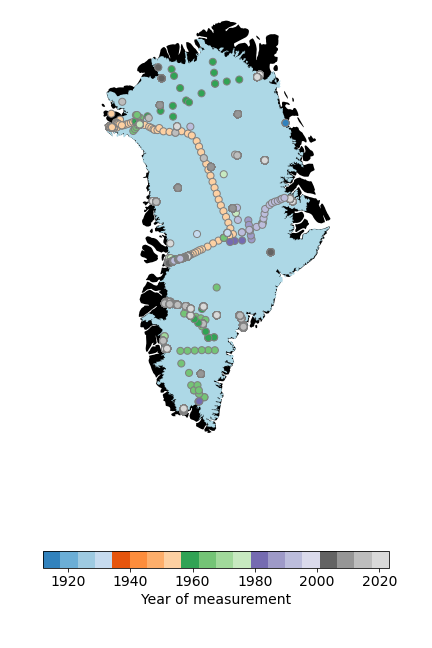
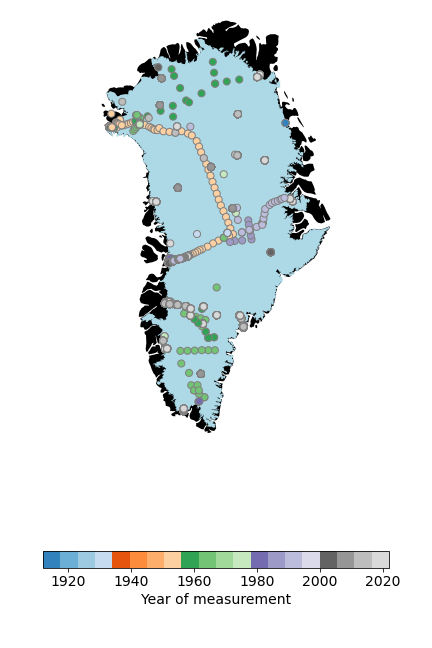
update land in figures

diff --git a/8_ANN_w_ERA5.py b/8_ANN_w_ERA5.py
@@ -35,12 +35,13 @@ ind_in = gpd.sjoin(gdf, ice_4326, predicate='within').index
 plt.figure()
 ice_4326.plot()
 gdf.loc[[i for i in gdf.index if i not in ind_in]].plot(color='r', ax=plt.gca())
-
+print(gdf.loc[[i for i in gdf.index if i not in ind_in]])
 print(len(df)-len(ind_in), 'observations outside ice sheet mask')
 df = df.loc[ind_in, :]
 
 # temporal selection
 print(((df.date<'1949-12-31') | (df.date>'2023')).sum(),'observations outside of 1950-2022')
+print(df.loc[((df.date<'1949-12-31') | (df.date>'2023')),:])
 df.loc[(df.date<='1949-12-01') | (df.date>='2023'),:]
 df = df.loc[(df.date>'1949-12-01') & (df.date<'2023'),:]
 
@@ -771,14 +772,10 @@ def extract_T10m_values(ds, df, dim1="x", dim2="y", name_out="out"):
     coords_uni = np.unique(df[[dim1, dim2]].values, axis=0)
     x = xr.DataArray(coords_uni[:, 0], dims="points")
     y = xr.DataArray(coords_uni[:, 1], dims="points")
-    try:
-        ds_interp = ds.interp(x=x, y=y, method="linear")
-    except:
-        ds_interp = ds.interp(longitude=x, latitude=y, method="linear")
-    try:
-        ds_interp_2 = ds.interp(x=x, y=y, method="nearest")
-    except:
-        ds_interp_2 = ds.interp(longitude=x, latitude=y, method="nearest")
+
+    ds_interp = ds.bfill(dim='latitude').interp(longitude=x, 
+                                                latitude=y, 
+                                                method="nearest")
 
     for i in (range(df.shape[0])):
         query_point = (df[dim1].values[i], df[dim2].values[i])
@@ -786,10 +783,6 @@ def extract_T10m_values(ds, df, dim1="x", dim2="y", name_out="out"):
         tmp = ds_interp.T10m.isel(points=index_point).sel(
             time=df.date.values[i], method="nearest"
         )
-        if tmp.isnull().all():
-            tmp = ds_interp_2.T10m.isel(points=index_point).sel(
-                time=df.date.values[i], method="nearest"
-            )
 
         df.iloc[i, df.columns.get_loc(name_out)] = tmp.values
     return df
@@ -799,14 +792,9 @@ df['T10m_ANN'] = np.nan
 df = extract_T10m_values(
     ds_T10m.to_dataset(), df, dim1="longitude", dim2="latitude", name_out="T10m_ANN"
 )
-# calculating directly from the dataset
-# df.loc[df.T10m_ANN.isnull(), 'T10m_ANN'] = ANN_predict(
-#     df.loc[df.T10m_ANN.isnull(), Predictors],
-#     best_model, 
-#     best_PredictorScalerFit, 
-#     best_TargetVarScalerFit)
 
-# % Plotting Figure 3
+
+# %% Plotting Figure 3
 df_10m = df.loc[df.depthOfTemperatureObservation.astype(float) == 10, :]
 
 # plt.close('all')
@@ -898,7 +886,7 @@ for ax1, model in zip( [plt.subplot(4,2,1), plt.subplot(4,2,3)],
 # =============== map =======================
 ax_map = plt.subplot(2,2,2)
 
-land.plot(color="k", ax=ax_map)
+land.plot(color="lightgray", ax=ax_map)
 
 im = ds_T10m_std_avg.where(ds_T10m_std_avg < 1000).plot(
     ax=ax_map, add_colorbar=False)
@@ -999,5 +987,5 @@ fig.text(0.5,  0.02,  "Year",
     ha="center", va="center", fontsize=16)
 fig.text(0.03, 0.3, "10 m subsurface temperature (°C)",
     ha="center", va="center", rotation="vertical", fontsize=16)
-fig.savefig('figures/figure3.tif', dpi =900)
-# fig.savefig('figures/figure3.pdf')
+fig.savefig('figures/figure3.tif', dpi =300)
+fig.savefig('figures/figure3.png', dpi=120)

diff --git a/3_cluster_analysis.py b/3_cluster_analysis.py
@@ -101,7 +101,7 @@ box = ax1.get_position()
 box.x0 = box.x0 - 0.2
 box.x1 = box.x1 - 0.2
 ax1.set_position(box)
-land.to_crs("EPSG:3413").plot(ax=ax1, color="k")
+land.to_crs("EPSG:3413").plot(ax=ax1, color="lightgray")
 ice.to_crs("EPSG:3413").plot(ax=ax1, color="gray")
 DSA.to_crs("EPSG:3413").plot(ax=ax1, color="tab:blue")
 # LAPA.to_crs("EPSG:3413").plot(ax=ax1, color="m")
@@ -109,7 +109,7 @@ PA.to_crs("EPSG:3413").plot(ax=ax1, color="tab:red")
 
 ax1.axis("off")
 h = [np.nan, np.nan, np.nan, np.nan, np.nan]
-h[0] = mpatches.Patch(facecolor="k", label="Land")
+h[0] = mpatches.Patch(facecolor="lightgray", label="Land")
 h[1] = mpatches.Patch(facecolor="gray", label="Bare ice area")
 h[2] = mpatches.Patch(facecolor="tab:blue", label="Dry snow area")
 # h[3] = mpatches.Patch(facecolor="m", label="Low accumulation\npercolation area")
@@ -125,7 +125,7 @@ ax1.text(0.02, 0.95, "(a)" ,
         verticalalignment="top",fontweight='bold')
 hb = ax1.hexbin(df.x_3413, df.y_3413,
     bins="log", gridsize=(20, 26), mincnt=1,
-    linewidth=0.5, edgecolors="white", cmap="magma")
+    linewidth=0.5, edgecolors="k", cmap="gnuplot2")
 cbar_ax = fig.add_axes([0.62, 0.58, 0.2, 0.01])
 cb = plt.colorbar(hb, ax=ax1, cax=cbar_ax, orientation="horizontal")
 cb.ax.get_yaxis().fontsize = 14
@@ -139,10 +139,10 @@ ax2.set_ylabel('Number of observations')
 ax2.set_xlabel('Year')
 ax2.grid()  
 
-fig.savefig('figures/figure1.tif', dpi=900, bbox_inches='tight')
-# fig.savefig('figures/figure1.pdf')
+fig.savefig('figures/figure1.tif', dpi=300, bbox_inches='tight')
+fig.savefig('figures/figure1.png', dpi=120)
 
-# Studying clusters
+# %% Studying clusters
 fig, ax = plt.subplots(1, 1, figsize=(6, 9))
 fig.subplots_adjust(hspace=0.0, wspace=0.0, top=1, bottom=0, left=0, right=1)
 land.plot(ax=ax, zorder=0, color="black")
